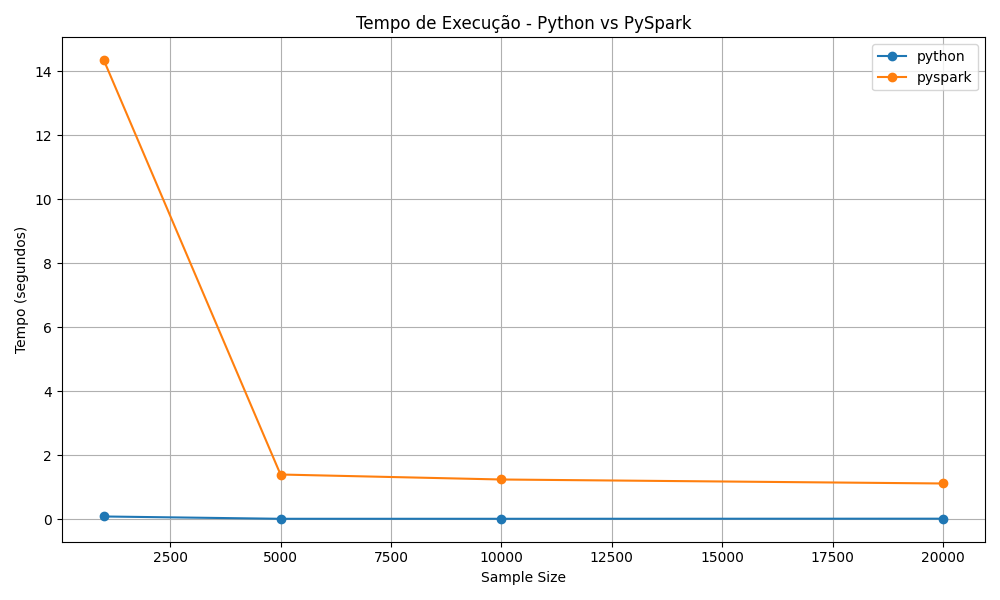
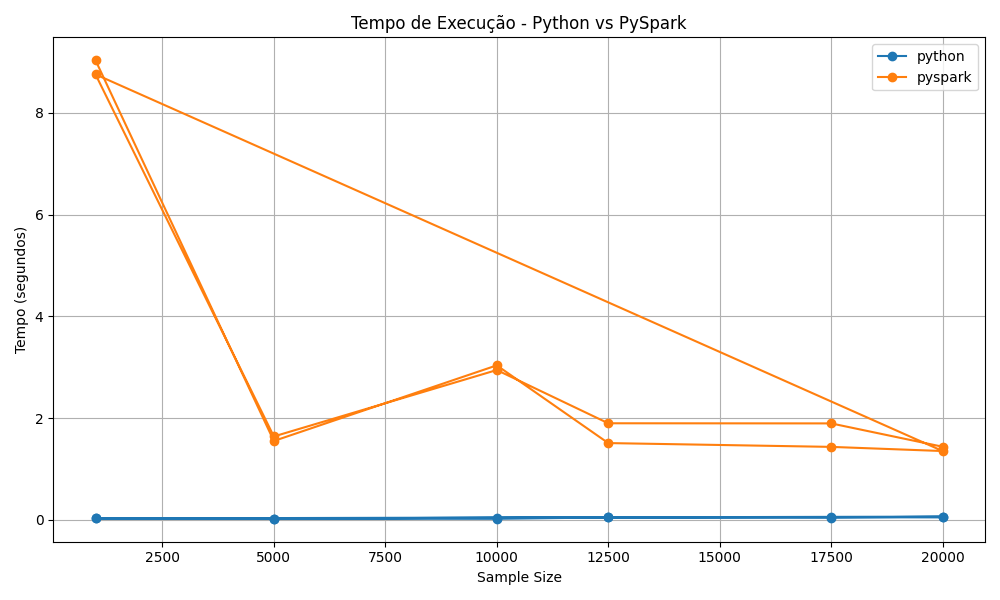
novas alteracoes

diff --git a/data_augmentation_scripts/fastfood_augmented.py b/data_augmentation_scripts/fastfood_augmented.py
@@ -4,60 +4,59 @@ import pandas as pd
 import os
 
 
-# Load your original dataset
+# load
 original_df = pd.read_csv("BigData/processed_datasets/fastfood.csv")
 
 
-# Initialize Faker
+# 
 fake = Faker('en_US')
 
-# Define number of synthetic entries to create
-num_new_restaurants = 10000  # You can change this to any number
+# num_restaurantes
+num_new_restaurants = 10000  
 
-# Define some fake fast food chain names to diversify the dataset
+# fake 
 fake_brands = [
     "Burger Town", "Fry King", "Taco Planet", "Pizza Express",
     "Grill Master", "Hot Chicken USA", "Wrap & Roll", "Donut Haven",
     "Veggie Bites", "Sub Stop", "Waffle World"
 ]
 
-# Extract the list of U.S. states from the original dataset
+# ir buscar lista de estados
 states = original_df['state'].unique().tolist()
 
-# Create synthetic entries
+# criar entradas
 new_data = []
 for _ in range(num_new_restaurants):
     state = random.choice(states)
     name = random.choice(fake_brands)
     
-    # Simulate coordinates within rough U.S. bounds
+    # coordenadas
     latitude = round(random.uniform(24.396308, 49.384358), 6)
     longitude = round(random.uniform(-125.0, -66.93457), 6)
     
     new_data.append([name, state, latitude, longitude])
 
-# Create DataFrame with the new entries
+# criar df
 synthetic_df = pd.DataFrame(new_data, columns=['name', 'state', 'latitude', 'longitude'])
 
-# Concatenate with the original dataset
+# concatenar com df original
 combined_df = pd.concat([original_df, synthetic_df], ignore_index=True)
 
-# Save to a new CSV if needed
+# novo csv
 combined_df.to_csv("fastfood_augmented.csv", index=False)  # Optional
 
-# Optional: show preview
+# preview
 print(combined_df.head())
 print(f"Original size: {len(original_df)}")
 print(f"New total size: {len(combined_df)}")
 
-# Define the output folder and file name
+# output folder
 output_folder = os.path.join(os.path.dirname(__file__), "../augmentation_datasets")
 output_file = os.path.join(output_folder, "fastfood_augmented.csv")
 
-# Create the folder if it doesn't exist
 os.makedirs(output_folder, exist_ok=True)
 
-# Save the augmented CSV
+# guardar csv
 combined_df.to_csv(output_file, index=False)
 
 print(f"Augmented dataset saved to: {output_file}")

diff --git a/data_augmentation_scripts/county_partitioning.py b/data_augmentation_scripts/county_partitioning.py
@@ -3,22 +3,21 @@ import os
 import random
 from faker import Faker
 
-# Initialize Faker
 fake = Faker('en_US')
 
-# Load your state-level dataset
+# load
 df = pd.read_csv("BigData/processed_datasets/final.csv")
 
-# Create output directory inside BigData
+
 output_folder = "BigData/county_partitioned_states"
 os.makedirs(output_folder, exist_ok=True)
 
 # Settings
 counties_per_state = 50
-obesity_variation = 2.0         # +/- 2% obesity
-density_variation = 0.05        # +/- 0.05 fast food density
+obesity_variation = 2.0         
+density_variation = 0.05        
 
-# Generate counties for each state
+# gerar counties
 for _, row in df.iterrows():
     state = row["State"]
     avg_obesity = row["Obesity_index"]

diff --git a/benchmarks_scripts/benchmark.py b/benchmarks_scripts/benchmark.py
@@ -5,6 +5,13 @@ import psutil
 import os
 from pathlib import Path
 import matplotlib.pyplot as plt
+import random
+import numpy as np
+
+random.seed(42)
+np.random.seed(42)
+
+
 
 # Java 11
 os.environ["JAVA_HOME"] = "C:/Program Files/Eclipse Adoptium/jdk-11.0.26.4-hotspot"
@@ -12,7 +19,7 @@ os.environ["HADOOP_HOME"] = "C:/Program Files/hadoop"
 
 # ========== Configurações ==========
 CSV_FILE = "BigData/augmentation_datasets/fastfood_augmented.csv"
-SAMPLES = [1000, 5000, 10000, 20000]
+SAMPLES = [1000, 5000, 10000, 12500, 17500, 20000]
 OUTPUT_DIR = Path(__file__).resolve().parent.parent / "benchmarks"
 OUTPUT_FILE = OUTPUT_DIR / "benchmark_results.csv"
 CHART_TIME = OUTPUT_DIR / "execution_time.png"
